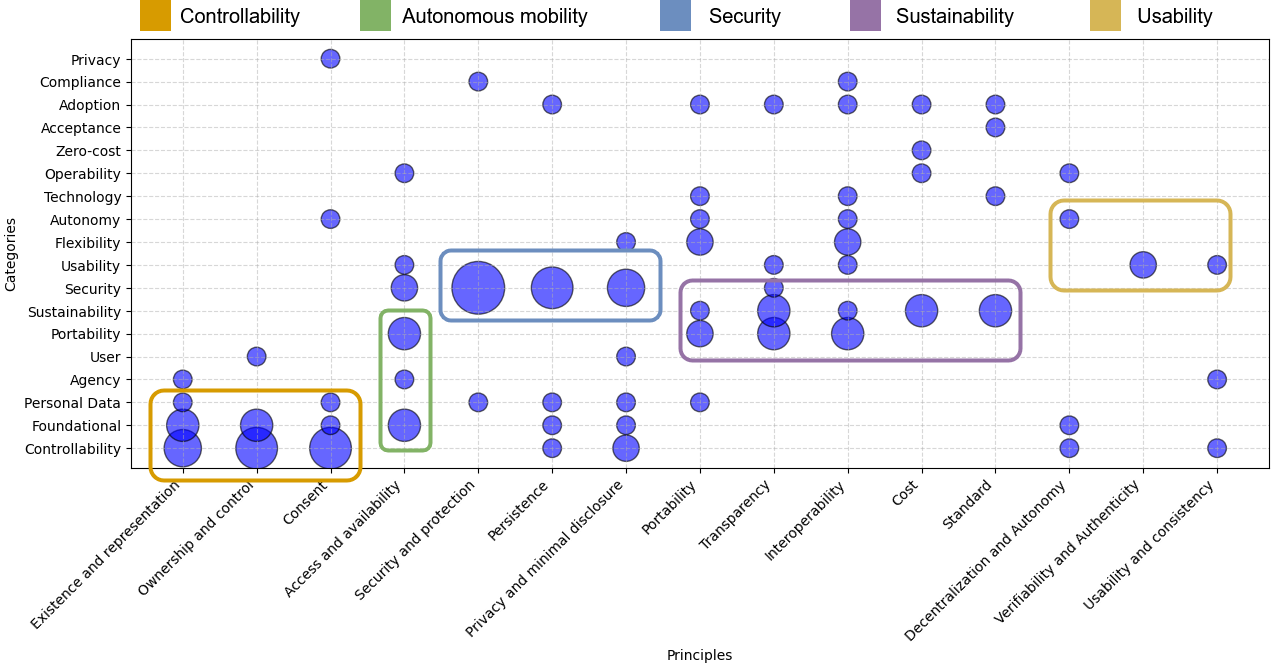
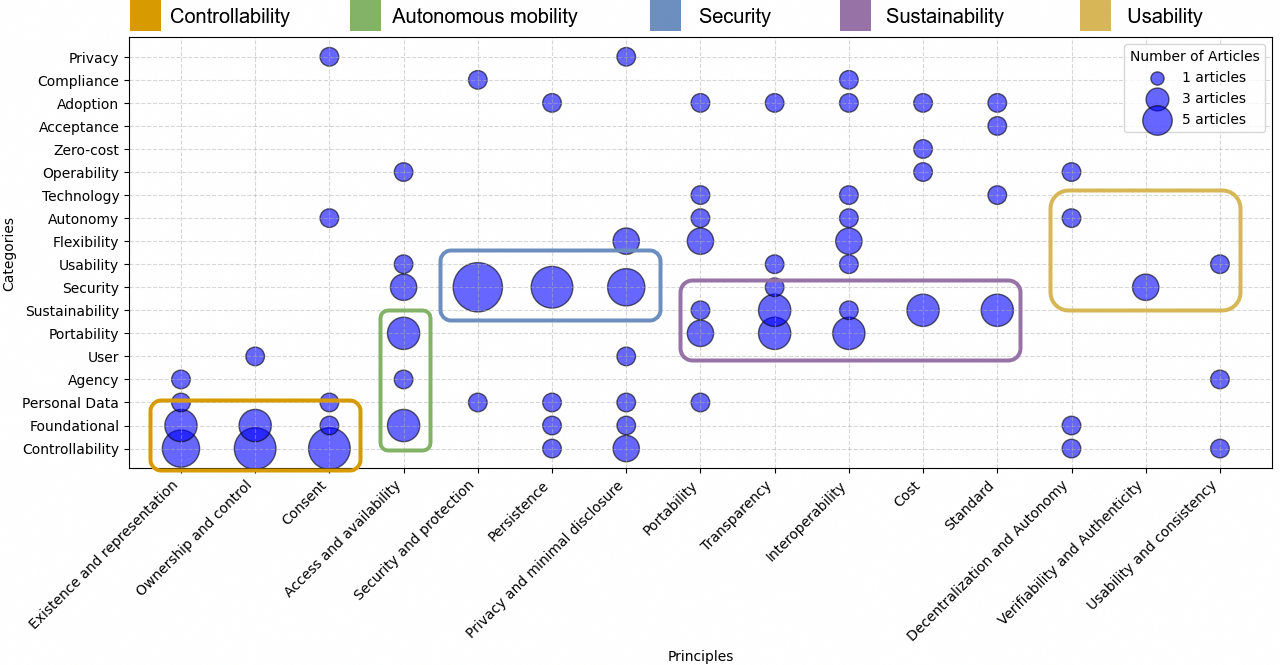
.

diff --git a/definition/program/clustering/graphs/BubbleChart.py b/definition/program/clustering/graphs/BubbleChart.py
@@ -41,4 +41,10 @@ plt.title("")
 plt.xlabel("Principles")
 plt.ylabel("Categories")
 plt.grid(True, linestyle="--", alpha=0.5)
+
+# Adding a legend for bubble size
+legend_sizes = [1, 3, 5]  # Example article counts
+legend_bubbles = [plt.scatter([], [], s=size * 90, alpha=0.6, c="blue", edgecolors="black") for size in legend_sizes]
+plt.legend(legend_bubbles, [f"{size} articles" for size in legend_sizes], title="Number of Articles", loc="upper right")
+
 plt.show()

diff --git a/definition/Definition.md b/definition/Definition.md
@@ -192,21 +192,14 @@ This produces a separation of the objects into groups from which the metric to b
 ![K-Means](/definition/images/clusters/K-Means_flow/K-Means_flow.png)
 *Figure 10: Flow diagram of K-means.*
 
-The program detailed in the [Appendix A](#appendix-a) automate the process. We tested values 2 - 7 for k, obtaining the results depicted in Figure 11. For reproducibility of results, we used the same seeds to generate the centroids.
+Despites K-Means is pretty simple, it carries a few limitations. One and foremost, (a) there is no efficient and universal method for identifying the number of clusters K; (b) It is affected by the shape, size, density of clusters; (c) It is sensitive to outliers.[^saxena][^rai]
+
+To mitigate problem (a), we have automatize the process to test various values for k through a program detailed in the [Appendix A](#appendix-a). Results are depicted in Figure 11. For reproducibility of results, we used the same seeds to generate the centroids.
 
 ###### Discussion and limitations
-Although K- Means clustering is still one of
-the most popular clustering algorithms yet few limitation are associated with K Means clustering
-include: (a) There is no efficient and universal method for identifying the initial partitions and the
-number of clusters K and (b) K-means is sensitive to outliers and noise[^saxena]
 
-K-means has problems when clusters are of differing
-Sizes,Densities,Non-globular shapes and K-means has
-problems when the data contains outliers[^rai]
-
-CORREGGERE GRAFICO E PROGRAMMA IN APPENDICE;
 ![Bubble K-Means](/definition/images/clusters/Bubble.png)
-*Figure 6: *
+*Figure 12: *
 
 ![Clustering](/definition/images/clusters/Graph_theory.png)
 *Figure 7: *
@@ -377,17 +370,130 @@ INSERIRE I RANKING DELLE PROPRIETA4 ALL4INTERNO DI QUESTA IMMAGINE
 ![Allen Principles Schema (Local)](/definition/images/SSI_process_flow/SSI_process_flow_raw.png)
 *SSI properties mapped within the general SSI process flow.[^allen]*
 
-## Appendix A
+## Appendix: K-Means Clustering Program Explanation
 
-- The program reads data from a CSV file 
-`data = pd.read_csv(file_path)`
-- Fills black cells with zeroes 
-`cleaned_data = numerical_columns.fillna(0)`
-- Applies the K-Means clustering 
-`kmeans = KMeans(n_clusters=n_clusters, init='k-means++', random_state=42)` with a pre-established value `K=5`
-For reproducibility of results, we used the same seed to calculate the starting centroid through `random_state=42`
-We tested several combinations of parameter K (number of clusters) and eventually settled on `K=5`. This value of K ensures a fair number of elements in each cluster.
-- Write output and save results. `print(f"Clustering completed! Results saved in: {output_file}")`
+### Overview
+
+This Python program applies the K-Means Clustering algorithm to a dataset stored in a CSV file. The processed dataset is then saved with an additional column indicating the cluster assignment for each data point. The files are dispatched under the following repository: [/definition/program/clustering/kmeans/](/definition/program/clustering/kmeans/).
+
+### Libraries Used
+
+- `pandas` – For handling and processing tabular data.
+- `sklearn.cluster.KMeans` – For applying the K-Means clustering algorithm.
+- `numpy` – For handling numerical data.
+- `os` – For handling file paths.
+
+### Function: `kmeans_clustering(file_path, n_clusters)`
+
+This function performs the following steps:
+
+1. **Load Data:** Reads the CSV file into a pandas DataFrame.
+2. **Select Numerical Columns:** Filters out only the numerical columns for clustering.
+3. **Handle Missing Values:** Replaces NaN values with 0 to ensure compatibility with K-Means.
+4. **Apply K-Means Clustering:**
+   - Uses `KMeans` from `sklearn.cluster`.
+   - Initializes clusters using the `k-means++` method.
+   - Assigns cluster labels to each data point.
+5. **Save the Result:**
+   - Adds a new column named `Clustering` with the assigned cluster labels.
+   - Saves the modified dataset as `Output.csv`.
+   - Prints the count of data points in each cluster.
+
+### Code Explanation
+
+```python
+import pandas as pd
+from sklearn.cluster import KMeans
+import numpy as np
+import os
+```
+
+- Importing the necessary libraries.
+
+```python
+def kmeans_clustering(file_path, n_clusters):
+```
+
+- Defines the function, which takes the **file path** and the **number of clusters** as inputs.
+
+```python
+    data = pd.read_csv(file_path)
+```
+
+- Reads the CSV file into a pandas DataFrame.
+
+```python
+    numerical_columns = data.select_dtypes(include=[np.number]).dropna(axis=1, how='all')
+```
+
+- Selects only numerical columns and drops columns that contain all NaN values.
+
+```python
+    cleaned_data = numerical_columns.fillna(0)
+```
+
+- Fills any remaining NaN values with `0`.
+
+```python
+    kmeans = KMeans(n_clusters=n_clusters, init='k-means++', random_state=42)
+    clusters = kmeans.fit_predict(cleaned_data)
+```
+
+- Initializes the K-Means model with `n_clusters`.
+- Uses `k-means++` initialization for better convergence.
+- Predicts cluster assignments for the dataset.
+
+```python
+    data['Clustering'] = clusters
+```
+
+- Adds a new column **Clustering** to the original dataset.
+
+```python
+    output_file = "Output.csv"
+    data.to_csv(output_file, index=False)
+```
+
+- Saves the updated dataset as `Output.csv` without row indices.
+
+```python
+    print(f"Clustering completed! Results saved in: {output_file}")
+    print(data[['Clustering']].value_counts().sort_index())
+```
+
+- Prints a success message and displays the count of data points in each cluster.
+
+### Execution Block
+
+```python
+if __name__ == "__main__":
+```
+
+- Ensures that the script runs only when executed directly.
+
+```python
+    download_folder = os.path.join(os.path.expanduser("~"), "Downloads/SSI_principles/Definition/Program")
+    file_path = os.path.join(download_folder, "Input.csv")
+```
+
+- Constructs the file path dynamically based on the user's home directory.
+
+```python
+    n_clusters = 5
+    kmeans_clustering(file_path, n_clusters)
+```
+
+- Specifies the number of clusters (`k=5`) and runs the function.
+
+### Output
+
+- The script prints the message **"Clustering completed! Results saved in: Output.csv"**.
+- Displays the count of data points assigned to each cluster.
+- Saves the clustered data to `Output.csv`.
+
+### Summary
+
+This program efficiently applies K-Means Clustering to a dataset and saves the results. It is particularly useful for unsupervised learning tasks where grouping similar data points is required.
 
 ## Appendix A
 
